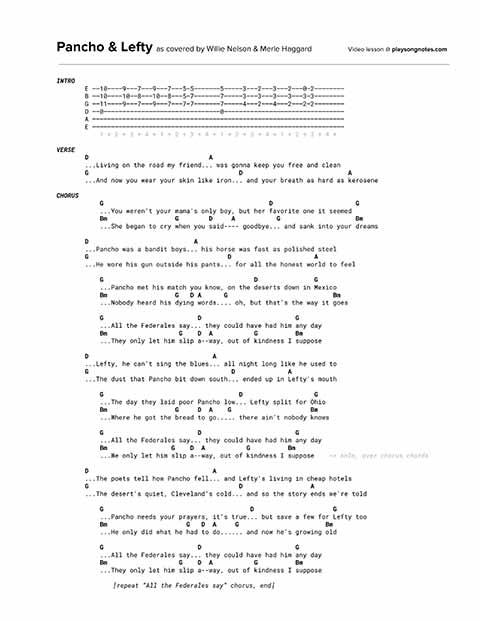
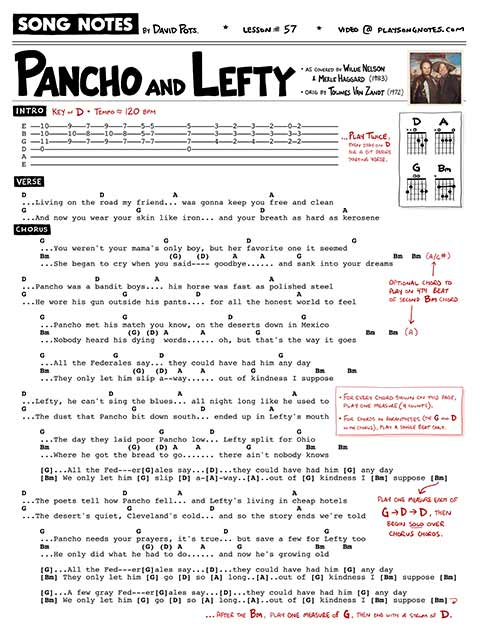
Adds 57 updated toc etc

Changed region(s): [[0.0, 0.0, 0.9688, 1.0]]

diff --git a/_includes/latest-uploads.html b/_includes/latest-uploads.html
@@ -5,6 +5,16 @@
   <!-- <li><a class="underline" href="________"><strong>___________</strong></a> by __________<br /><em>________</em></li> -->
 
   <li class="homepage-latest-gallery">
+    <a style="" href="/lessons/57">
+      <div style="background-image: url(/images/pdfs/preview/57.jpg);" class="pdf-thumbnail"></div>
+      <h3>Pancho and Lefty</h3>
+      <h4>by Willie Nelson & Merle Haggard</h4>
+      <h5>Mar 14, 2021 • Lesson #57</h5>
+      <h6>Watch Video & Get PDF »</h6>
+    </a>
+  </li>
+
+  <li class="homepage-latest-gallery">
     <a style="" href="/lessons/355">
       <div style="background-image: url(/images/pdfs/preview/355.jpg);" class="pdf-thumbnail"></div>
       <h3>Keep 'Em on They Toes</h3>

diff --git a/_lessons/57 [Willie Nelson and Merle Haggard] Pancho and Lefty.md b/_lessons/57 [Willie Nelson and Merle Haggard] Pancho and Lefty.md
@@ -12,10 +12,11 @@ yt_video_id: _________
 slug: "57"
 redirect_from:
   - /songs/willie-nelson-and-merle-haggard-pancho-and-lefty/
-pdf_version: v1
-pdf_numpages: 3
+pdf_version: v2
+pdf_numpages: 2
 patreon_lesson_available: true
 patreon_lesson_url: https://www.patreon.com/posts/23986615
+pdf_for_sale: https://gum.co/FQYiu
 ---
 
 ## Video lesson
